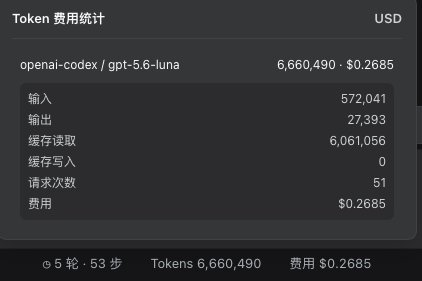
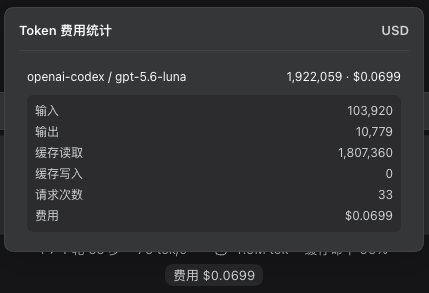
chore(release): version 0.1.5-rc.1.7
Packages: dsh-codex-login-plugin, dsh-codex-usage-plugin, dsh-session-cost-plugin, dsh-system-notification-plugin, dsh-default, dsh-codex

Behavior: polish the session-cost composer slot styling and document its screenshot states.

Checks: node --check for all package sources; pnpm -r --if-present run test; git diff --check

diff --git a/packages/session-cost/src/client.js b/packages/session-cost/src/client.js
@@ -22,10 +22,15 @@ window.__ModuleLoader__.load({
       position: 'relative',
     }
 
+    const ANCHOR_STYLE = {
+      minWidth: 0,
+      display: 'inline-flex',
+    }
+
     const PILL_STYLE = {
       boxSizing: 'border-box',
       maxWidth: '100%',
-      color: 'var(--dsw-alias-label-tertiary)',
+      color: 'var(--dsw-alias-label-tertiary, var(--dsw-alias-label-secondary))',
       font: 'inherit',
       fontVariantNumeric: 'tabular-nums',
       lineHeight: 'inherit',
@@ -41,7 +46,7 @@ window.__ModuleLoader__.load({
     }
 
     const PILL_HOVER_STYLE = {
-      background: 'var(--dsw-alias-interactive-bg-hover)',
+      background: 'var(--dsw-alias-interactive-bg-hover, var(--dsw-alias-bg-layer-2))',
       color: 'var(--dsw-alias-label-secondary)',
     }
 
@@ -239,6 +244,7 @@ window.__ModuleLoader__.load({
       const [costState, setCostState] = React.useState({ phase: 'empty' })
       const [open, setOpen] = React.useState(false)
       const [expanded, setExpanded] = React.useState(null)
+      const [hover, setHover] = React.useState(false)
       const hasTokens = hasProjectionTokens(usage)
 
       React.useEffect(() => {
@@ -261,13 +267,18 @@ window.__ModuleLoader__.load({
       const costValue = costState.phase === 'ready' ? costState.value : null
       if (costValue === null || costValue.requests <= 0) return null
 
+      const pillStyle = Object.assign({}, PILL_STYLE, open || hover ? PILL_HOVER_STYLE : null)
       return React.createElement('div', { style: ROW_STYLE },
-        React.createElement('span', null,
+        React.createElement('span', { style: ANCHOR_STYLE },
           React.createElement('button', {
             type: 'button',
-            style: PILL_STYLE,
+            style: pillStyle,
             'aria-haspopup': 'dialog',
             'aria-expanded': open,
+            onMouseEnter: () => setHover(true),
+            onMouseLeave: () => setHover(false),
+            onFocus: () => setHover(true),
+            onBlur: () => setHover(false),
             onClick: () => setOpen(!open),
           }, '费用 ' + costText(costValue.cost, costValue.pricing)),
         ),

diff --git a/README.md b/README.md
@@ -13,7 +13,7 @@
 | [`packages/system-notification`](packages/system-notification/) | 插件；默认组合成员 | `dsh-system-notification-plugin` | 旁路监听任务状态和审批事件，发送 macOS / Windows 原生系统通知 | [`README`](packages/system-notification/README.md) |
 | [`packages/codex-login`](packages/codex-login/) | 按需临时插件 | `dsh-codex-login-plugin` | 提供 ChatGPT / Codex OAuth 登录入口；首次登录完成后即可卸载 | [`README`](packages/codex-login/README.md) |
 | [`packages/codex-usage`](packages/codex-usage/) | 按需插件 | `dsh-codex-usage-plugin` | 在输入框下方显示 Codex 的 5 小时 / 每周额度与重置倒计时，复用 DSH 自己的 Codex 凭据 | [`README`](packages/codex-usage/README.md) |
-| [`packages/session-cost`](packages/session-cost/) | 插件；默认组合成员 | `dsh-session-cost-plugin` | 在 Token 总量右侧显示当前会话的 provider/model 费用与 USD 统计 | [`README`](packages/session-cost/README.md) |
+| [`packages/session-cost`](packages/session-cost/) | 插件；默认组合成员 | `dsh-session-cost-plugin` | 在 Token 统计行下方显示当前会话的 provider/model 费用与 USD 统计 | [`README`](packages/session-cost/README.md) |
 | [`packs/default`](packs/default/) | 默认组合 | `dsh-default` | 默认启用系统通知和 Session 费用插件，不承载业务实现 | [`README`](packs/default/README.md) |
 | [`packs/codex`](packs/codex/) | Codex 组合 | `dsh-codex` | 同时启用 Codex 登录和额度显示，不承载业务实现 | [`README`](packs/codex/README.md) |
 

diff --git a/CHANGELOG.md b/CHANGELOG.md
@@ -10,7 +10,11 @@
 
 ## Unreleased
 
-以下变更位于 `dsh-plugins-v0.1.5-rc.1.6` 标签之后，尚未分配新的插件修订号。
+## 0.1.5-rc.1.7 — 2026-09-11
+
+**对应 DSH 官方标签：** `dsh-v0.1.5-rc.1`
+
+**对应本仓库标签：** `dsh-plugins-v0.1.5-rc.1.7`
 
 ### 工作区与组合
 
@@ -25,10 +29,11 @@
 
 ### Session 费用
 
-- 新增按需插件 `packages/session-cost`（`dsh-session-cost-plugin`）：在 Token 总量右侧显示按 `provider/model` 分组的 USD 费用。
+- 新增 `packages/session-cost`（`dsh-session-cost-plugin`）：在 DSH 内置 Token 统计下方独立显示按 `provider/model` 分组的 USD 费用。
 - 费用从 durable Session events 的 provider usage 重算，成功消息和无 surface message 的 retry attempt 均覆盖；模型价格只使用 `@earendil-works/pi-ai` 内置目录，未知模型不猜价。
 - 点击费用可展开 Token / cache 明细与每个模型的费用；不增加额外持久化。
-- 补充 Session 费用的收起态和明细截图，并将截图资源随插件包发布。
+- 使用独立的 `session-cost` composer slot（`order: 10`），保留 DSH 内置 `stats` 及 Codex 用量 slot。
+- 补充 Session 费用 pill、费用对话框收起/展开态截图，并将截图资源随插件包发布。
 
 ## 0.1.5-rc.1.6 — 2026-09-10
 

diff --git a/packages/session-cost/README.md b/packages/session-cost/README.md
@@ -15,6 +15,20 @@
 - **未知价格**：模型不在 pi-ai 内置目录时显示 `未知`，不会猜测价格；已知模型的费用仍会显示，并标记未知部分。
 - **与 Codex 用量插件并装**：三者都位于 `conversation.composer.dock`；DSH 内置 `stats` 保持 `order: 0`，本插件使用独立的 `session-cost`（`order: 10`），Codex 用量插件使用 `codex-usage`（`order: 20`），按当前 DSH Slot 契约可同时安装。
 
+## 截图与演示
+
+费用 pill 收起态：
+
+![Session 费用收起态](assets/session-cost-pill.jpg)
+
+点击费用后的对话框收起态：
+
+![Session 费用明细收起态](assets/session-cost-details-collapsed.jpg)
+
+展开 provider/model 后的 Token 费用明细：
+
+![Session 费用明细展开态](assets/session-cost-details.jpg)
+
 ## 安装
 
 默认组合 `dsh-default` 已包含本插件；如果只需要 Session 费用，也可以在 Monorepo 根目录按需单独安装：
